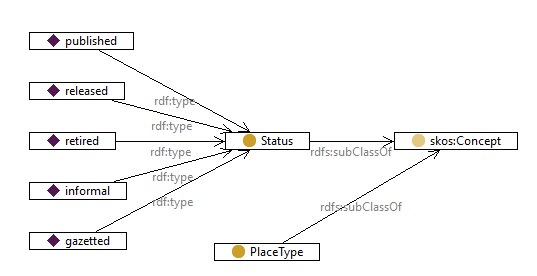
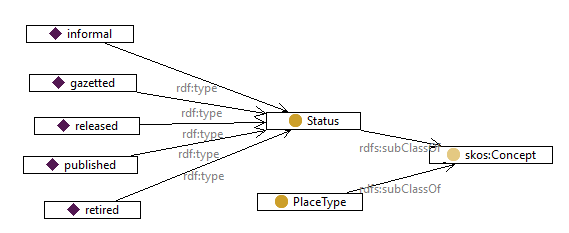
Add figure and Status description

diff --git a/placenames.html b/placenames.html
@@ -584,7 +584,7 @@ ex:NT_10532
                 <th>Description</th>
                 <td>
                     <p>A name associated with a geospatial place or feature. </p>
-<p><i>Additional properties are specified for the sub-class OfficialPlaceName which shoudl be used for formal names</i></p>
+<p><i>Additional properties are specified for the sub-class OfficialPlaceName which should be used for formal names</i></p>
                 </td>
             </tr>
             <tr>
@@ -694,6 +694,13 @@ ex:DH
             <tr>
                 <th>IRI</th>
                 <td><code>http://linked.data.gov.au/def/placenames/Status</code></td>
+            </tr>
+            <tr>
+                <th>Description</th>
+                <td>
+                    <p>Status of resource, in context of a standard lifecycle: informal, gazetted, released, published, retired</p>
+                    <p><img alt="" src="./images/status.png" /></p>
+                </td>
             </tr>
             <tr>
                 <th>Super-classes</th>
